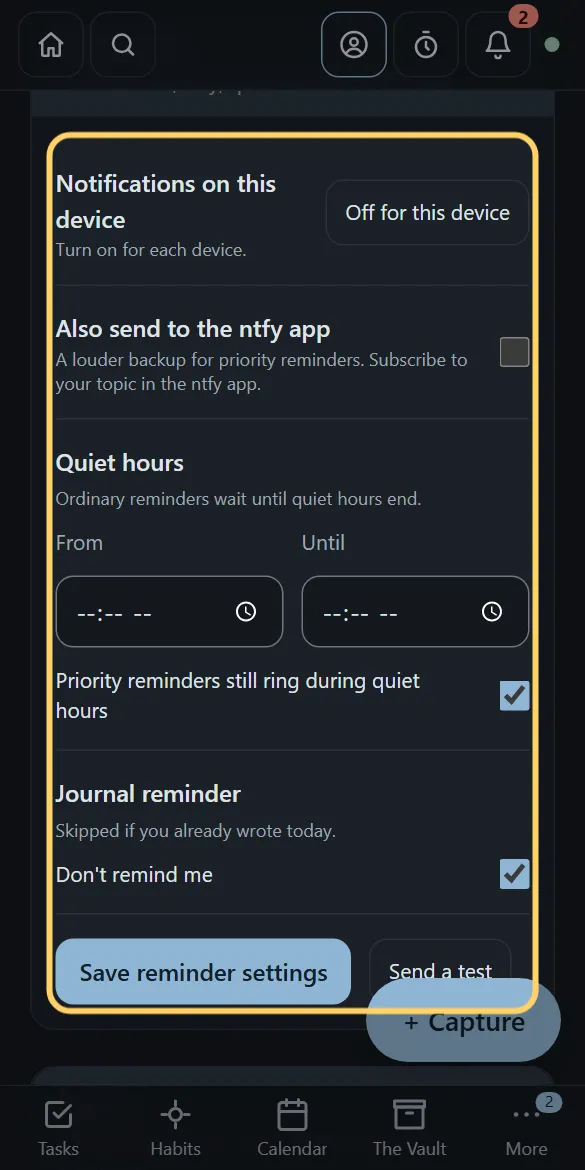
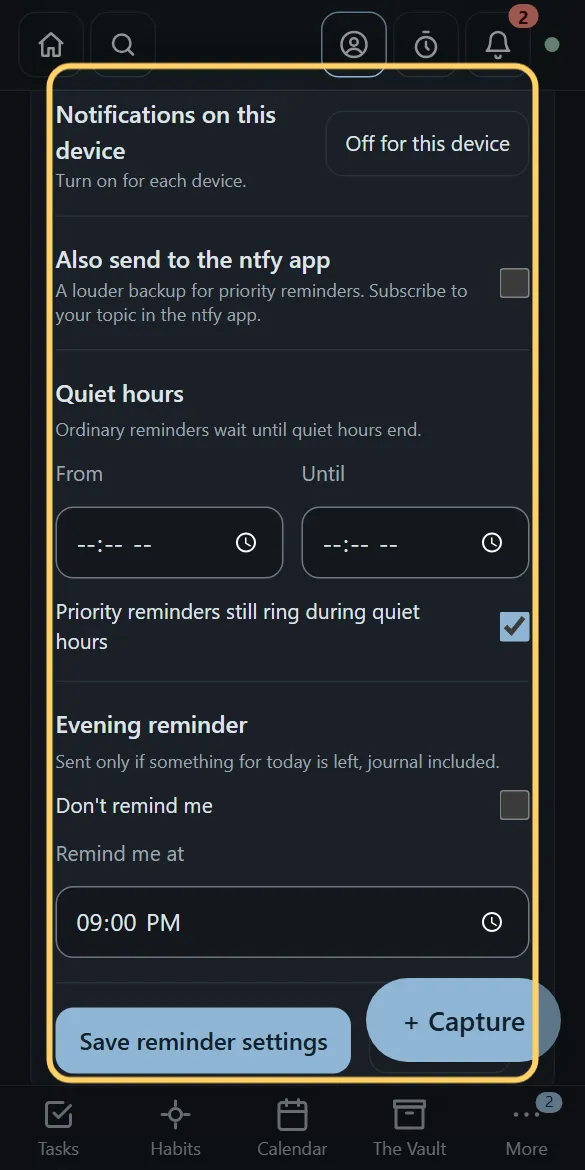
Evening reminder: Help steps, reminders picture, migration order fix for existing rows

diff --git a/src/messages.ts b/src/messages.ts
@@ -1518,14 +1518,14 @@ export const messages = {
       { id: 'scheduling', title: 'Finding a time', what: 'See who’s free before you pick a time. Works with your connections.', steps: ['Set the times you’re not available: Calendar, then My availability (Work hours fills in a work week).', 'Add connections to an event. Each one shows free, busy, maybe busy or unknown.', 'Open Schedule and tap Find a time, then tap a time to use it.'], alt: 'The event editor’s Schedule section with the Find a time button highlighted.' },
       { id: 'connections', title: 'Connections', what: 'Connect with people you know, so you can invite each other in the app.', steps: ['Open More, then Connections.', 'Type their email or phone number and tap Send request.', "Once they accept, you can invite them and see when they're free."], alt: 'The Connections page with the box for their email or phone number highlighted.' },
       { id: 'vault', title: 'The Vault', what: 'Lists to keep: shopping, books, places to go.', steps: ['Tap a list to open it.', 'Add items, with a rating, a link or notes if you like.', 'Checklists let you tick things off.'], alt: 'The Vault page with the Books to read list highlighted.' },
-      { id: 'journal', title: 'Journal', what: 'A few lines a day.', steps: ['Open More, then Journal.', "Write in today's box. It saves as you type.", 'Answer "Was today better than yesterday?" and leave a note for tomorrow.'], alt: "The Journal page with today's writing box highlighted." },
+      { id: 'journal', title: 'Journal', what: 'A few lines a day.', steps: ['Open More, then Journal.', "Write in today's box. It saves as you type.", 'Answer "Was today better than yesterday?" and leave a note for tomorrow.', 'To change an earlier day, tap Edit beside it.'], alt: "The Journal page with today's writing box highlighted." },
       { id: 'journal-lock', title: 'Locking your journal', what: 'Encrypt your journal so only you can read it, even if someone sees the database.', steps: ['Open Account, then Account Settings, and tap Lock my journal.', 'Pick a passphrase and save your recovery key somewhere safe.', 'On a new device, unlock with your passphrase, your recovery key or a passkey.'], alt: 'The Lock my journal section of the Account page highlighted.' },
       { id: 'quests', title: 'Random Quest', what: 'Bored? Let the app pick something to do.', steps: ['Open More, then Quests.', 'Pick your energy and how much time you have.', 'Tap Pick a quest for me.'], alt: 'The Random Quest page with the Pick a quest for me button highlighted.' },
       { id: 'focus', title: 'Focus timer', what: 'A timer for working in short bursts.', steps: ['Tap the stopwatch at the top.', 'It fills the screen while it runs.', 'Tap Minimize to keep using the app.'], alt: 'The top of the screen with the stopwatch button highlighted.' },
       { id: 'dashboard', title: 'Dashboard and Post Its', what: "Your home page: Post Its, what's up next, and how yesterday went.", steps: ['Tap the house at the top.', 'Post Its hold quick notes. Swipe to see the next one.', 'Up next suggests one thing to do now.'], alt: 'The Dashboard with the Post Its on the chalkboard highlighted.' },
       { id: 'trophies', title: 'Trophies', what: 'Trophies reward you for keeping at it.', steps: ['Find them on your Dashboard.', 'Tap See all trophies to see what you have earned.', 'Close to the next one? The Dashboard says so.'], alt: 'The Trophies section of the Dashboard highlighted.' },
       { id: 'alerts', title: 'Alerts', what: 'Every reminder and message also lands under the bell.', steps: ['Tap the bell. The number is how many are new.', 'Tap an alert to go to it.', 'Tap ✕ to clear one, or Clear all.'], alt: 'The Alerts list open from the bell, highlighted.' },
-      { id: 'reminders', title: 'Reminders on your phone', what: 'Get reminders even when the app is closed.', steps: ["Android: open your browser's menu and tap Install app.", 'iPhone: tap Share, then Add to Home Screen, and open it from there.', 'Then open Account, then Reminders, and turn on Notifications on this device.'], alt: 'The Reminders settings on the Account page highlighted.' },
+      { id: 'reminders', title: 'Reminders on your phone', what: 'Get reminders even when the app is closed.', steps: ["Android: open your browser's menu and tap Install app.", 'iPhone: tap Share, then Add to Home Screen, and open it from there.', 'Then open Account, then Reminders, and turn on Notifications on this device.', 'At 9 pm you get one reminder if anything for today is left. Change the time, or turn it off, under Evening reminder.'], alt: 'The Reminders settings on the Account page highlighted.' },
       { id: 'search', title: 'Search and tags', what: "Find anything you've saved.", steps: ['Tap the magnifying glass at the top.', 'Type a word.', 'Tag tasks, habits and routines (like Work or Home) to find them together.'], alt: 'The top of the screen with the search button highlighted.' },
       { id: 'offline', title: 'Works offline', what: "No signal? Keep going. Changes upload when you're back online.", steps: ['The dot at the top shows how saving is going.', 'Hover over it, or look in the side menu on a computer, to see Synced, Offline or how many are waiting.', 'Your phone and computer stay in step.'], alt: 'The top of the screen with the sync dot highlighted.' },
       { id: 'data', title: 'Your data', what: 'Download everything, or start fresh.', steps: ['Open Account, then Your data.', 'Tap Download my data to save a copy.', 'Delete my data lets you pick what to remove first.'], alt: 'The Your data section of the Account page with the Download my data button highlighted.' },

diff --git a/PROGRESS.md b/PROGRESS.md
@@ -7,11 +7,11 @@ Older steps (1–11, feedback rounds 1–3, connections, navigation, Account tid
 ## Next step
 - **Guest poll ("When can you come?"):** for guests without accounts, through their answer link: the host offers a few times, guests answer Prefer, Yes or No (like Outlook's Scheduling Poll). SPEC §10 Scheduler "Later". Agree the details with the user first.
 
-## Evening reminder, journal Edit, See all trophies (in progress, branch `evening-reminder`)
+## Evening reminder, journal Edit, See all trophies (merged via PR, branch `evening-reminder`)
 - SPEC §5 Journal, §2 Rows look alike, §5 Trophies; DECISIONS 2026-11-15. The journal reminder became the **evening reminder**: on at 9:00 pm by default, sent only if something for today is left (open tasks due or carried over, habits, routines, priority tasks, unwritten journal), saying how many; opens the Dashboard. Column renamed `evening_reminder_time`, reminder kind `evening`; existing accounts set to 9:00 pm.
 - Past journal days have an Edit button; the date is plain text. See all trophies shows only earned ones; started ones are in the Locked window with progress.
-- Migration `20261115010000_evening_reminder.sql`: dev migrated, `npm run test:db` passes; **prod not yet**. Quick checks pass (journal-lock "Start my journal over" flaked once under load, passes alone).
-- At merge: Help (Journal, notifications) and home page wording, `npm run docs:images` for the journal picture, prod migration.
+- Migration `20261115010000_evening_reminder.sql`: dev and prod migrated; `npm run test:db` passes. Prod first refused it (old `journal` reminder rows renamed before the check was loosened; fixed the order). Help: Journal (Edit) and Reminders (evening reminder) steps; `help-reminders` picture retaken. `npm run test:all` passed.
+- Still to try: the 9 pm push arriving on the phone tonight.
 
 ## Journal lock (merged via PR, branch `journal-lock`)
 - SPEC §5 Locking my journal; DECISIONS 2026-11-13 (user: opt in, unlock remembered until sign out, yes/no answer and word count stay readable, journal only, passkeys now). Encryption at the sync boundary (`src/journal/lockingRemote.ts`, AES-256-GCM per field, `enc:v1:`), passphrase (PBKDF2 600k) + recovery key + passkeys (WebAuthn PRF). `word_count`/`has_writing` drive trophies, streaks, Up next, dashboard and the reminder. Lock card under Account Settings; match hint and Show passphrase checkbox.
